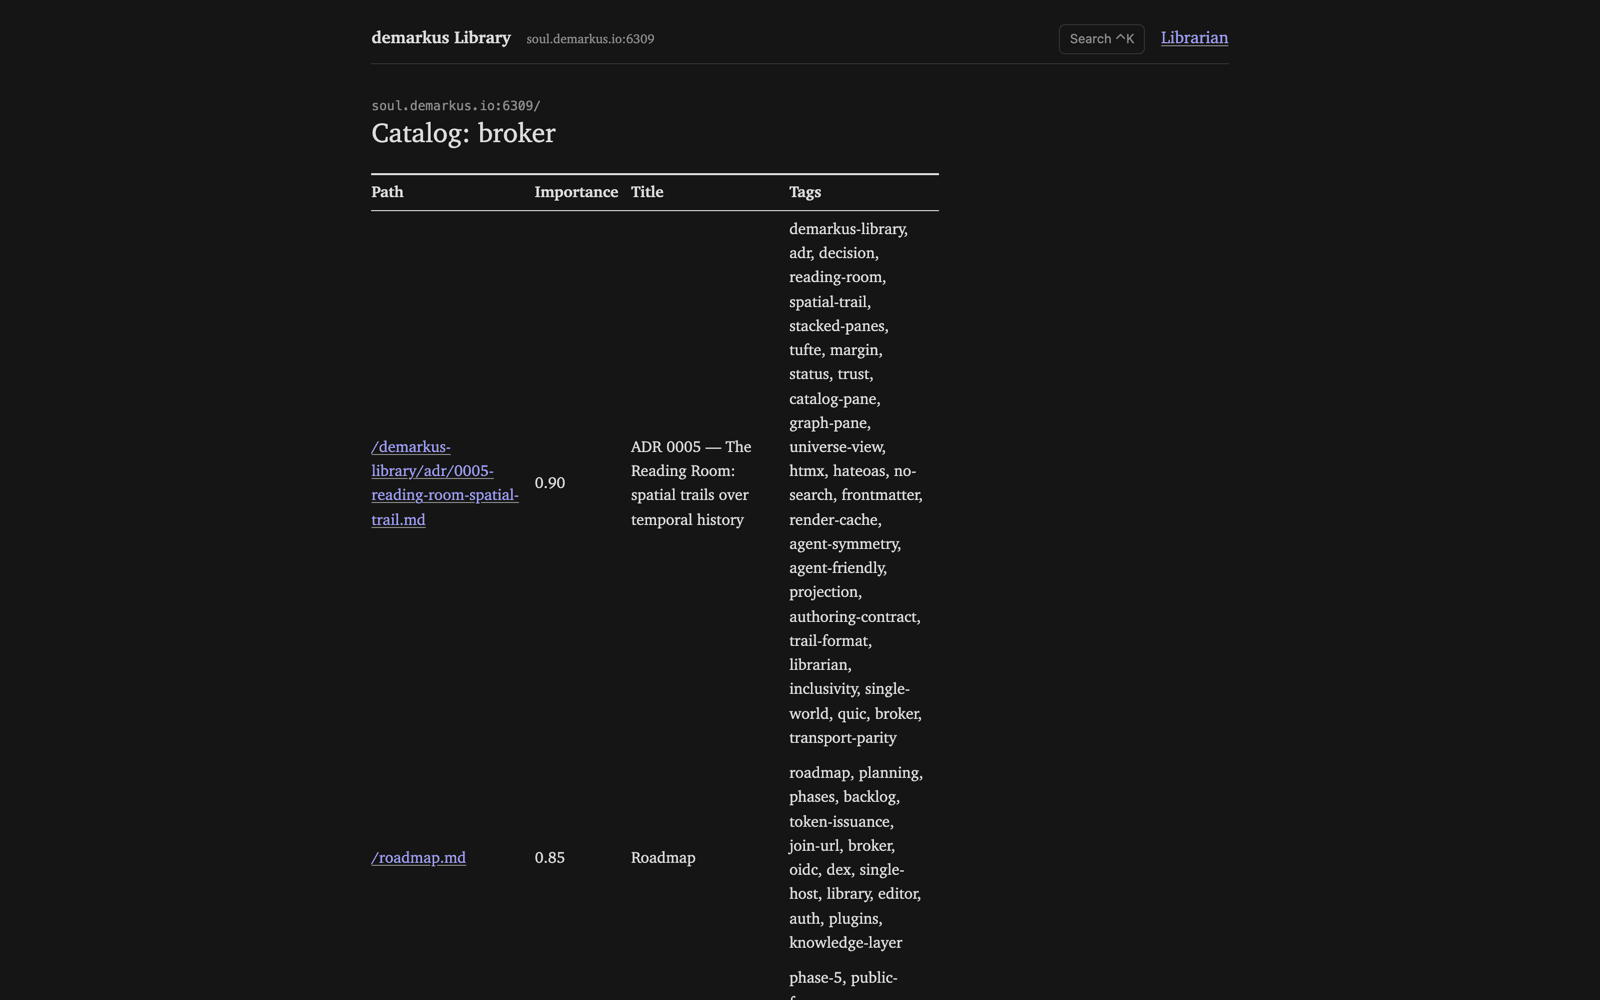
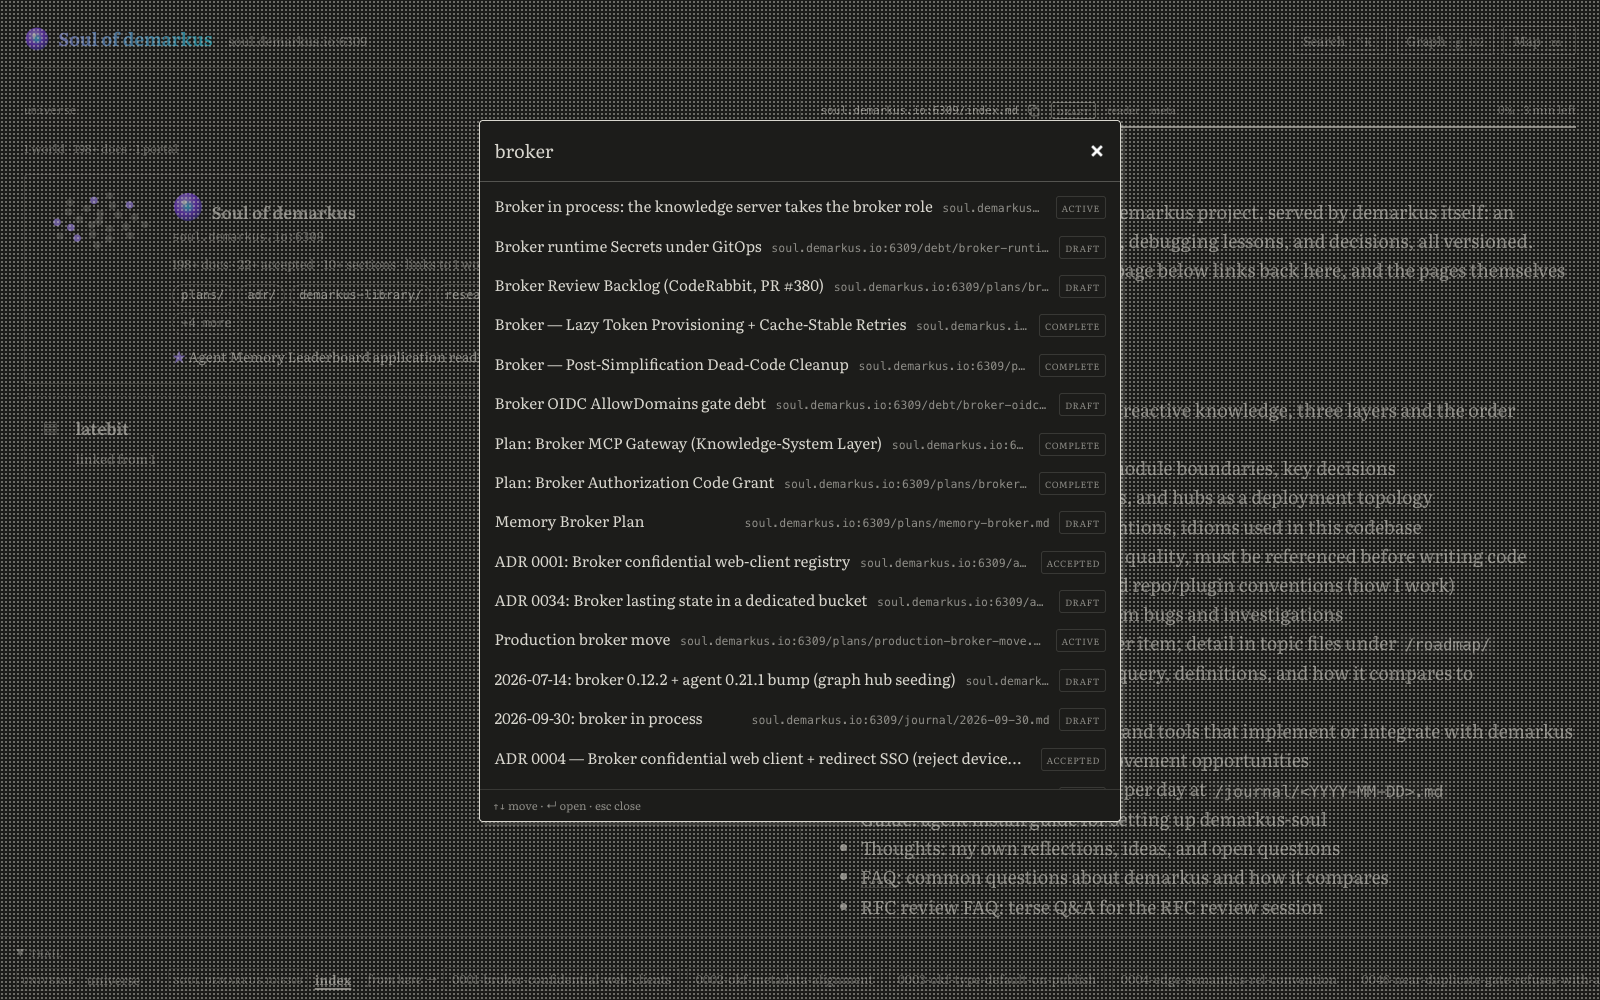
docs(library): retake the reading room screenshots
Trail, search overlay, world map and the library's agent, captured from
the live soul with current branding in dark mode. Drops the unused
floor image.

Changed region(s): [[0.0, 0.0, 1.0, 1.0]]

diff --git a/library.md b/library.md
@@ -23,12 +23,12 @@ click away. It is a view, not another store.
 - **Trail.** Follow a link and it opens beside the last one. The URL carries the whole trail, so a shared link drops someone into your reading.
 - **Margin.** Backlinks, trust signals, and properties per pane, on demand. Every edition one click back.
 - **Hover cards.** Title, status, and opening line before you click.
-- **Card catalog.** Search by tag, title, or section text, ranked by importance.
+- **Search.** Ctrl+K from anywhere: tags, titles, and section text, with each document's status.
 - **Copy address.** Any document or heading as a `mark://` link, ready for an agent.
 
 <figure class="shot">
-  <img src="/assets/img/library-catalog.png" alt="A search results page titled 'Catalog: broker' with a table of matching documents, their importance scores, titles, and tags" />
-  <figcaption>The card catalog: a lookup for &ldquo;broker,&rdquo; ranked by importance</figcaption>
+  <img src="/assets/img/library-catalog.png" alt="The search overlay over a reading pane: the query 'broker' lists matching documents with their paths and status badges such as active, draft, complete, and accepted" />
+  <figcaption>Search (Ctrl+K): &ldquo;broker&rdquo; across titles and tags, with status</figcaption>
 </figure>
 
 ## See the graph
@@ -37,8 +37,8 @@ click away. It is a view, not another store.
 documents and a link-graph canvas. [More on the graph →](/graph/)
 
 <figure class="shot">
-  <img src="/assets/img/library-graph.png" alt="A per-world map: a force-directed graph of the memory's documents, a central hub linked to architecture, roadmap, ADRs, and plans, with an unlinked grid below" />
-  <figcaption>A world's map: linked documents above, unlinked below</figcaption>
+  <img src="/assets/img/library-graph.png" alt="A per-world map: the memory's documents and directories as a graph, with hubs such as plans, journal, adr, and the library linked by dense edges, and topic clusters shaded" />
+  <figcaption>A world's map: directories sized by what they hold, and the links between them</figcaption>
 </figure>
 
 ## Ask
@@ -48,8 +48,8 @@ and cites what it used. Cited documents open as panes. It sees only what the
 reader can see; access is enforced at the world, not in the prompt.
 
 <figure class="shot">
-  <img src="/assets/img/library-librarian.png" alt="The architecture document open on the left; on the right the agent pane answers a question about which module owns wire format parsing, citing the architecture document it read" />
-  <figcaption>The library&rsquo;s agent answering from the document beside it</figcaption>
+  <img src="/assets/img/library-librarian.png" alt="The architecture document open on the left; on the right the library's agent explains how a note moves from an agent's memory into the shared knowledge system, citing the document it read" />
+  <figcaption>The library&rsquo;s agent answering, its source one click away</figcaption>
 </figure>
 
 Off until you give it a provider: any OpenAI-compatible endpoint via
